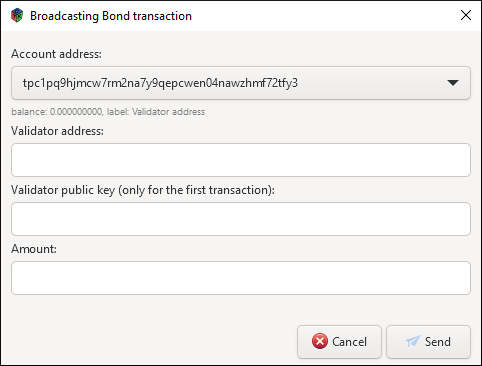
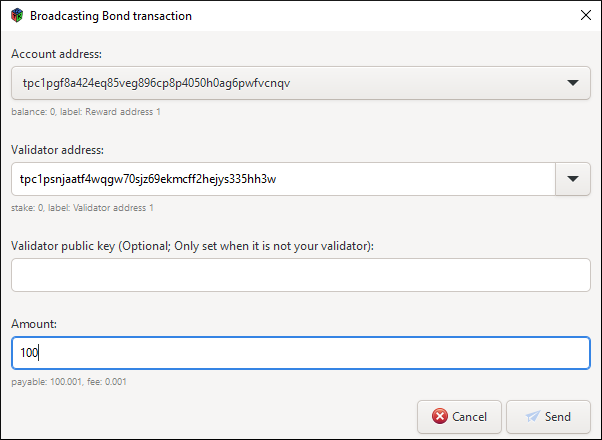
updating website

Changed region(s): [[0.0, 0.0, 1.0, 1.0], [0.0, 0.0, 0.4046, 0.0601]]

diff --git a/website/index.html b/website/index.html
@@ -8,20 +8,27 @@ permalink: index.html
   <div class="row p-4">
     <div class="col-md-6">
       <div class="pactus-video">
-        <video controls poster="/assets/images/what_is_pactus.png" preload="metadata" tabindex="0"
+        <video
+          controls
+          poster="/assets/images/what_is_pactus.png"
+          preload="metadata"
+          tabindex="0"
           aria-label="What is Pactus">
           <source src="{{ site.url }}/assets/media/what_is_pactus.mp4" />
-          <track label="English" kind="subtitles" srclang="en"
+          <track
+            label="English"
+            kind="subtitles"
+            srclang="en"
             src="{{ site.url }}/assets/media/subtitles/en/what_is_pactus.vtt" />
         </video>
       </div>
     </div>
     <div class="col-md-6 motto">
-      <div class="row" style="height: 50%;">
+      <div class="row" style="height: 50%">
         <div class="title">{% t dict.pactus_blockchain %}</div>
         <div class="motto">{% t dict.home.motto %}</div>
       </div>
-      <div class="row d-flex align-items-end" style="height: 50%;">
+      <div class="row d-flex align-items-end" style="height: 50%">
         <div class="col-md-6 bottom-align-text">
           <div class="text-center pt-md-4">
             <a class="btn btn-fixed btn-faq" href="{{ site.baseurl }}/about/faq" role="button">

diff --git a/website/_layouts/post.html b/website/_layouts/post.html
@@ -10,10 +10,15 @@
         <div class="col-lg-8 content">
           <h1>{{ page.title }}</h1>
           <span class="post-date">{{ page.date | date: "%d %B %Y" }}</span>
-
-          <div class="content">{{content}} {% include edit_page.html %}</div>
-          <div class="col-lg-2"></div>
+          {{content}}
+          <div class="row p-3">
+            <div class="col text-end">
+              <a href="{{ site.baseurl }}/blog/">{% t dict.blog.back %}</a>
+            </div>
+          </div>
+          {% include edit_page.html %}
         </div>
+        <div class="col-lg-2"></div>
       </div>
     </div>
     {% include footer.html %}

diff --git a/website/_i18n/en/user-guides/send-transactions-gui/index.md b/website/_i18n/en/user-guides/send-transactions-gui/index.md
@@ -17,9 +17,9 @@ You can find detailed instructions on how to do this in the following [tutorial]
 ## Sending a Transfer Transaction
 
 To send a [transfer transaction]({{ site.baseurl }}/learn/transaction/transfer/), click on the "Transaction" menu and
-select "Transfer."
-This will bring up a new window where you can select the
-[account]({{ site.baseurl }}/learn/blockchain/account/) address from which you wish to send the transfer,
+select "Transfer".
+A new window will appear where you can select the
+[account]({{ site.baseurl }}/learn/blockchain/account/) address from which you wish to send the "transfer" transaction,
 as well as the recipient's account address and the amount you wish to send.
 
 After reviewing the transaction details and ensuring that they are correct,
@@ -32,16 +32,11 @@ will be calculated based on the amount you're sending.
 
 ## Sending a Bond Transaction
 
-To send a [bond transaction]({{ site.baseurl }}/learn/transaction/bond/), navigate to the "Transaction" menu
-and select "Bond."
-A new window will appear where you can select the account address from which you wish to send the bond transaction,
-as well as the [validator]({{ site.baseurl }}/learn/blockchain/validator/) address of the recipient and
+To send a [bond transaction]({{ site.baseurl }}/learn/transaction/bond/), click on the "Transaction" menu
+and select "Bond".
+A new window will appear where you can select the account address from which you wish to send the "bond" transaction,
+as well as the recipient's [validator]({{ site.baseurl }}/learn/blockchain/validator/) address and
 the amount you wish to stake.
-
-If the validator address is not already registered on the Pactus blockchain, you will need to provide the
-validator's public key as the first staking transaction will create the validator on the Pactus blockchain.
-To obtain the public key, you can right-click on the validator's address in your wallet
-and select "Details."
 
 ![Bond Transaction Dialog]({{ site.url }}/user-guides/send-transactions-gui/bond-transaction-dialog.png)
 

diff --git a/website/_posts/2023-05-09-announcement-testnet-1.md b/website/_posts/2023-05-09-announcement-testnet-1.md
@@ -8,15 +8,17 @@ tags: announcement, testnet
 ## Overview
 
 The Pactus blockchain Testnet-1 is now available for participation.
-This version simulates the mainnet environment and evaluate the system's performance, stability,
+This version simulates the Mainnet environment and evaluate the system's performance, stability,
 and security in a controlled environment.
 The primary goal of this version of Testnet is to determine the efficient and secure committee size for the Mainnet.
 
 ## Key Aspects
 
-- Simulating the mainnet environment
+- Simulating the Mainnet environment
 - Determining the actual block creation time
 - Assessing the staking mechanism and consensus protocol
+- Evaluating network usage under different loads
+- Evaluating the syncing process for new nodes joining the network
 - Ensuring network stability with over 1000 validators
 - Evaluating transaction performance
 - Conducting stress tests
@@ -34,9 +36,9 @@ provide your validator address.
 
 ## Benefits for Participation
 
-By taking part in the testnet, users can familiarize themselves with the Pactus blockchain and
-be well-prepared for the mainnet launch.
-**Testnet participants will also receive higher priority during the mainnet launch and
+By taking part in the Testnet, users can familiarize themselves with the Pactus blockchain and
+be well-prepared for the Mainnet launch.
+**Testnet participants will also receive higher priority during the Mainnet launch and
 get free coins for initial staking on the Mainnet.**
 
 ## Your Feedback Matters

diff --git a/website/_posts/2023-03-31-what-is-testnet.md b/website/_posts/2023-03-31-what-is-testnet.md
@@ -47,7 +47,7 @@ They did it by utilizing block height instead of hash to store blocks within the
 Blockchain migration, integration tests, and etc. This is why you can now use the latest version of Pactus-GUI
 that works like clockwork and is extremely secure.
 
-**Testing the functions of cryptocurrency without disrupting the mainnet.** In the Testnet of Pactus Blockchain,
+**Testing the functions of cryptocurrency without disrupting the Mainnet.** In the Testnet of Pactus Blockchain,
 you as a user or validator can use all the features to send, receive, bond or unbond your assets in the Pactus-GUI.
 
 **Development and simulation of smart contract features and DApps.** Note that many Blockchain projects like Pactus,

diff --git a/website/_posts/2022-09-24-announcement-testnet-0.md b/website/_posts/2022-09-24-announcement-testnet-0.md
@@ -13,7 +13,7 @@ connect to the Testnet without any special configurations.
 For test coins, please visit our [Discord](https://discord.gg/H5vZkNnXCu) channel and share your validator address.
 
 By taking part in the Testnet, you can familiarize yourself with the Pactus blockchain and
-get ready for the mainnet launch.
-**Testnet participants will also be given higher priority during the mainnet launch.**
+get ready for the Mainnet launch.
+**Testnet participants will also be given higher priority during the Mainnet launch.**
 
 Please share your feedback with us to help improve the user experience in future versions of the software.

diff --git a/website/_posts/2023-05-08-announcement-release-0-10-0.md b/website/_posts/2023-05-08-announcement-release-0-10-0.md
@@ -24,7 +24,7 @@ Users can set up to 32 validators in a single node, and each validator can stake
 ## Download
 
 This version has been implemented for [Testnet-1]({{ site.url }}/2023/05/09/announcement-testnet-1.html) and
-is being prepared for the upcoming mainnet launch.
+is being prepared for the upcoming Mainnet launch.
 To start using Pactus Blockchain Testnet-1, download the latest version from the
 [download]({{ site.baseurl }}/download) page and join the Testnet.
 

diff --git a/website/_posts/2023-05-29-announcement-release-0-11-0.md b/website/_posts/2023-05-29-announcement-release-0-11-0.md
@@ -30,7 +30,7 @@ Users no longer need to set the validator public key if they want to bond Test P
 ## Download
 
 This version has been implemented for [Testnet-1]({{ site.url }}/2023/05/09/announcement-testnet-1.html) and
-is being prepared for the upcoming mainnet launch.
+is being prepared for the upcoming Mainnet launch.
 To start using Pactus Blockchain Testnet-1, download the latest version from the
 [download]({{ site.baseurl }}/download) page and join the Testnet.
 

diff --git a/website/_posts/2023-06-19-announcement-release-0-12-0.md b/website/_posts/2023-06-19-announcement-release-0-12-0.md
@@ -25,7 +25,7 @@ improves the calculation of total power (stake) of the blockchain in a more effe
 ## Download
 
 This version has been implemented for [Testnet-1]({{ site.url }}/2023/05/09/announcement-testnet-1.html) and
-is being prepared for the upcoming mainnet launch.
+is being prepared for the upcoming Mainnet launch.
 To start using Pactus Blockchain Testnet-1, download the latest version from the
 [download]({{ site.baseurl }}/download) page and join the Testnet.
 

diff --git a/website/_posts/2022-11-24-announcement-release-0-9-1.md b/website/_posts/2022-11-24-announcement-release-0-9-1.md
@@ -16,7 +16,7 @@ that allows users to interact with the blockchain without the need to sync the e
 
 ## Download
 
-This version has been implemented for Testnet-0 and is preparing for the upcoming mainnet launch.
+This version has been implemented for Testnet-0 and is preparing for the upcoming Mainnet launch.
 To start using the Pactus Blockchain Testnet-0,
 you can download the latest version from [download]({{ site.baseurl }}/download) page
 and join the Testnet.

diff --git a/website/_posts/2022-09-20-announcement-release-0-9-0.md b/website/_posts/2022-09-20-announcement-release-0-9-0.md
@@ -16,7 +16,7 @@ that allows users to interact with the blockchain without the need to sync the e
 
 ## Download
 
-This version has been implemented for Testnet-0 and is preparing for the upcoming mainnet launch.
+This version has been implemented for Testnet-0 and is preparing for the upcoming Mainnet launch.
 To get started with the Pactus Blockchain Testnet-0, simply [download]({{ site.baseurl }}/download)
 the latest version and run the Pactus software.
 
